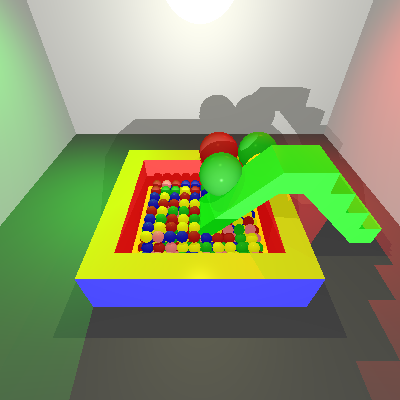
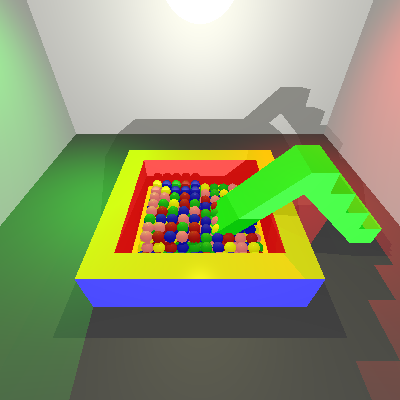
move slide

diff --git a/unitTests/renderer/FinalTest.java b/unitTests/renderer/FinalTest.java
@@ -88,16 +88,16 @@ public class FinalTest {
                     ,br4 = center.add(new Vector(30,-10,0));
             Point u1 = center.add(new Vector(0,-10, 40))
                     ,u2 = center.add(new Vector(0,10,40))
-                    ,u3 = center.add(new Vector(-10,10,40))
-                    ,u4 = center.add(new Vector(-10,-10,40));
+                    ,u3 = u2 //center.add(new Vector(-10,10,40))
+                    ,u4 = u1; //center.add(new Vector(-10,-10,40));
             Point b1 = center.add(new Vector(0,-10, 30))
                     ,b2 = center.add(new Vector(0,10,30))
-                    ,b3 = center.add(new Vector(-10,10,30))
-                    ,b4 = center.add(new Vector(-10,-10,30));
-            Point bl1 = center.add(new Vector(-40,-10,0))
-                    ,bl2 = center.add(new Vector(-40,10,0))
-                    ,bl3 = center.add(new Vector(-50,10,0))
-                    ,bl4 = center.add(new Vector(-50,-10,0));
+                    ,b3 = b2 //center.add(new Vector(-10,10,30))
+                    ,b4 = b1; //center.add(new Vector(-10,-10,30));
+            Point bl1 = center.add(new Vector(-30,-10,0))
+                    ,bl2 = center.add(new Vector(-30,10,0))
+                    ,bl3 = center.add(new Vector(-40,10,0))
+                    ,bl4 = center.add(new Vector(-40,-10,0));
             Point s11 = center.add(new Vector(40, -10,10))
                     ,s12 = center.add(new Vector(40, 10 , 10))
                     ,s21 = center.add(new Vector(30, -10,20))
@@ -142,10 +142,10 @@ public class FinalTest {
                     ,new Triangle(u2, s42, so3).setEmission(green).setMaterial(material)
                     ,new Rec(s41, s42, u2, u1, green, material)
 
-                    ,new Rec(b1, b2, b3, b4, green, material)
-                    ,new Rec(b1, u1, u4, b4, green, material)
-                    ,new Rec(u1, u2, u3, u4, green, material)
-                    ,new Rec(u2, b2, b3, u3, green, material)
+                    //,new Rec(b1, b2, b3, b4, green, material)
+                    //,new Rec(b1, u1, u4, b4, green, material)
+                    //,new Rec(u1, u2, u3, u4, green, material)
+                    //,new Rec(u2, b2, b3, u3, green, material)
                     ,new Rec(bl1, bl2, bl3, bl4, green, material)
                     ,new Rec(bl1, bl2, b3, b4, green, material)
                     ,new Rec(bl1, b4, u4, bl4, green, material)
@@ -320,7 +320,7 @@ public class FinalTest {
         scene.geometries.add(new BallsGrid(new Point(28,28,3), new Vector(-1,0,0), new Vector(0,-1,0), 11,11, 2.5, poolM));
         scene.geometries.add(new BallsGrid(new Point(25.5,25.5,6.25), new Vector(-1,0,0), new Vector(0,-1,0), 10,10, 2.5, poolM));
         scene.geometries.add(new BallsGrid(new Point(0,23,10.5), new Vector(-1,0,0), new Vector(0,-1,0), 5,8, 2.5, poolM));
-        scene.geometries.add(new BallsGrid(new Point(40,40,25), new Vector(-1,0,0), new Vector(0,-1,0), 2,2, 10, poolM));
+        //scene.geometries.add(new BallsGrid(new Point(40,40,25), new Vector(-1,0,0), new Vector(0,-1,0), 2,2, 10, poolM));
         scene.geometries.add(new BallsPool(new Point(0,0,0), poolM));
         scene.geometries.add(new Slide(new Point(40,0,0), poolM));
         scene.geometries.add(new Sphere(lightPlace, 4).setEmission(yellow).setMaterial(new Material().setKd(0.5).setKs(0.5).setShininess(50).setKt(0.85)));
